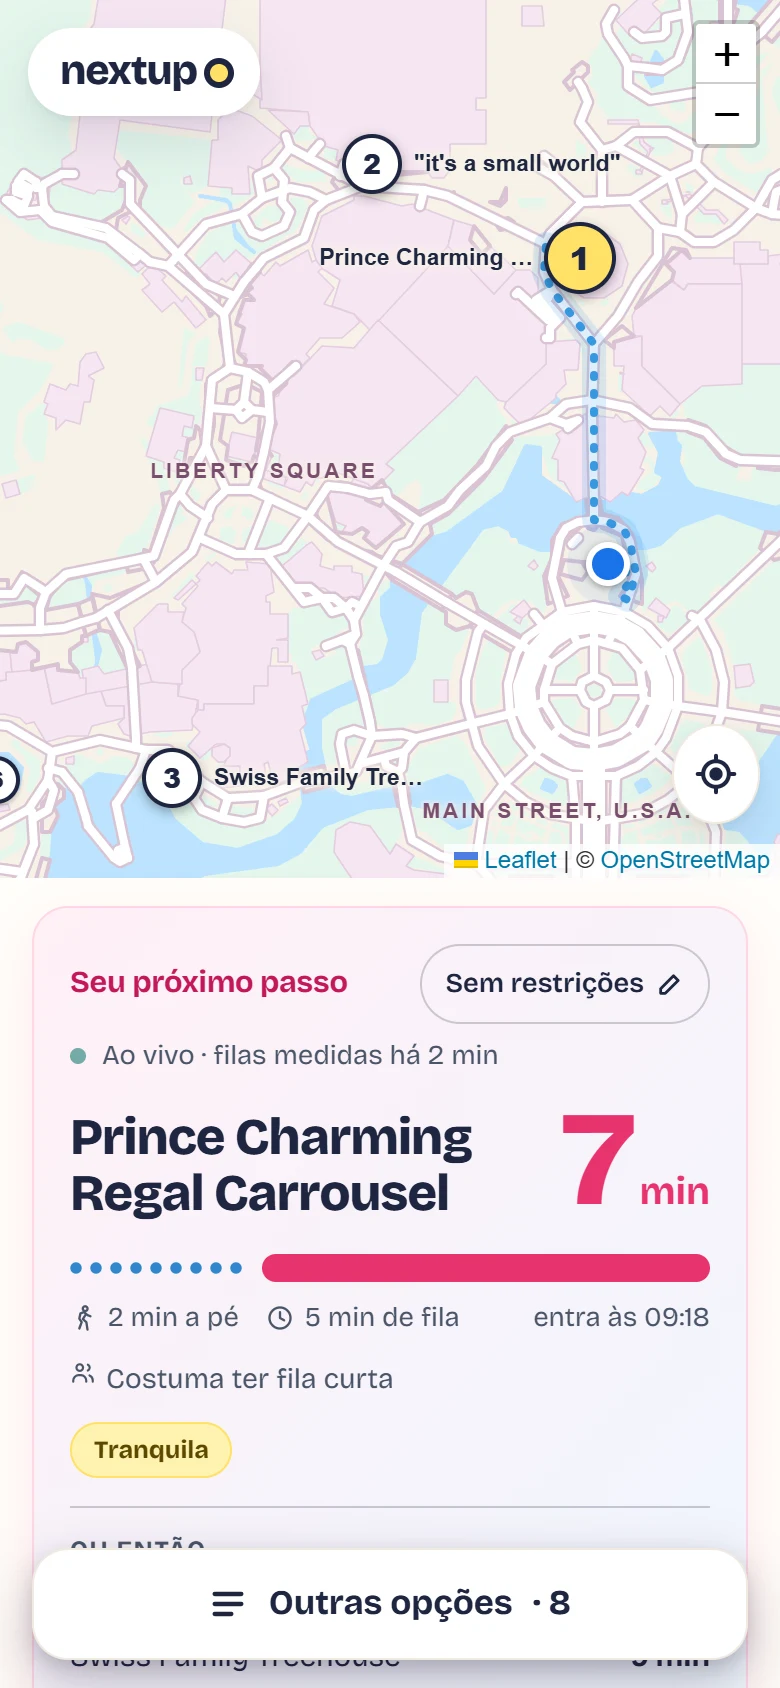
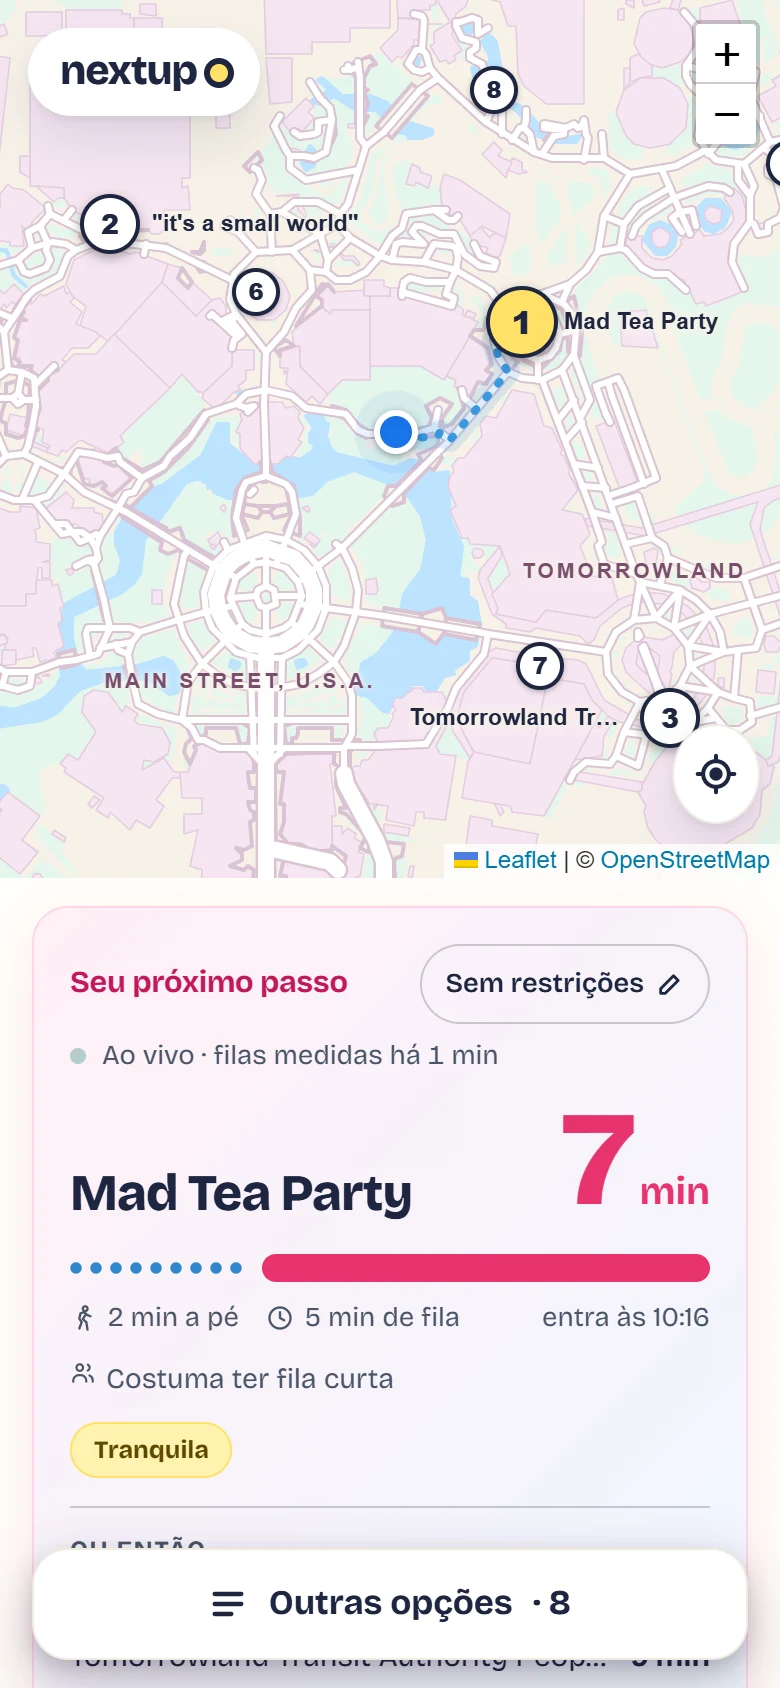
feat: refaz as capas do NextUp tocando no mapa, para mostrar a funcao

diff --git a/src/content/projetos/nextup.md b/src/content/projetos/nextup.md
@@ -19,7 +19,7 @@ cover: ../../assets/projetos/nextup-celular-claro.webp
 coverEscuro: ../../assets/projetos/nextup-celular-escuro.webp
 coverLargo: ../../assets/projetos/nextup-computador-claro.webp
 coverLargoEscuro: ../../assets/projetos/nextup-computador-escuro.webp
-coverAlt: NextUp com o mapa do Magic Kingdom, a rota a pé até a atração recomendada e o cartão "Seu próximo passo", que soma caminhada e fila.
+coverAlt: NextUp com o mapa do Magic Kingdom, as melhores atrações numeradas, a rota a pé até a primeira e o cartão "Seu próximo passo", que soma caminhada e fila.
 featured: true
 order: 1
 confidential: false
